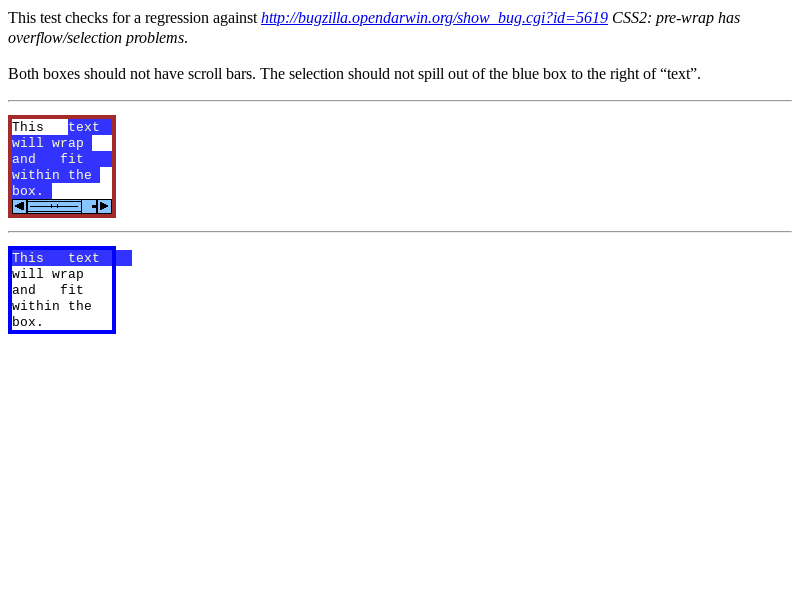
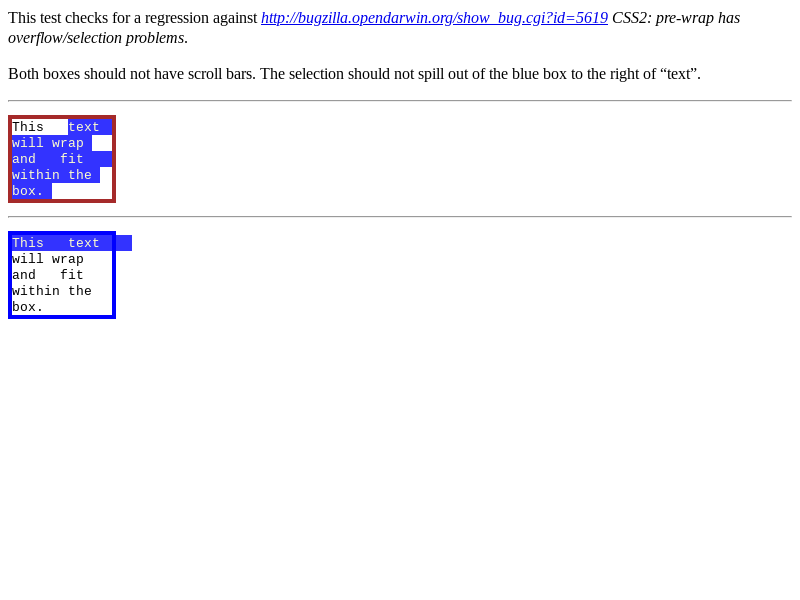
[LayoutNG] Hang preserved trailing spaces for `text-align: start`
This patch hangs preserved trailing spaces when `text-align`
is `start` (or `left` in LTR or `right` in RTL).

The previous tests did not cover `start` case because it was
thought not observable, but issue 966773 discovered that it
is ovservable, and tests figured out that all impls hang in
this case.

This patch matches LayoutNG to legacy. The test is tentative
until the CSS WG resolution.

One test was failing before this patch but was accidentally
passed. Now it really fails:

Bug: 966773
Commit-Queue: Koji Ishii <kojii@chromium.org>
Cr-Original-Commit-Position: refs/heads/master@{#665495}
Cr-Mirrored-From: https://chromium.googlesource.com/chromium/src
Cr-Mirrored-Commit: 82caddcc1f6f39ec55e143363a387c3393079e52

Changed region(s): [[0.0, 0.33, 0.9688, 0.57]]

diff --git a/blink/web_tests/external/wpt/css/css-text/white-space/trailing-space-align-start.tentative.html b/blink/web_tests/external/wpt/css/css-text/white-space/trailing-space-align-start.tentative.html
@@ -1,0 +1,22 @@
+<!DOCTYPE html>
+<title>Preserved trailing spaces when `text-align: left`</title>
+<link rel="help" href="http://crbug.com/966773">
+<link rel="author" title="Koji Ishii" href="mailto:kojii@chromium.org">
+<link rel="match" href="reference/trailing-space-align-start-ref.html">
+<style>
+div {
+  font-family: monospace;
+  font-size: 30px;
+  width: 3ch;
+  overflow: auto;
+}
+.pre { white-space: pre; }
+.pre-wrap { white-space: pre-wrap; }
+</style>
+<body>
+  <div class="pre">0 0 </div>
+  <div class="pre">0 0</div>
+  <div class="pre-wrap">0 0</div>
+  <div class="pre-wrap">0 0 </div>
+  <div class="pre-wrap">0 0 0 0 </div>
+</body>

diff --git a/blink/web_tests/external/wpt/css/css-text/white-space/reference/trailing-space-align-start-ref.html b/blink/web_tests/external/wpt/css/css-text/white-space/reference/trailing-space-align-start-ref.html
@@ -1,0 +1,17 @@
+<!DOCTYPE html>
+<style>
+div {
+  font-family: monospace;
+  font-size: 30px;
+  width: 3ch;
+  overflow: auto;
+  white-space: pre;
+}
+</style>
+<body>
+  <div>0 00</div>
+  <div>0 0</div>
+  <div>0 0</div>
+  <div>0 0</div>
+  <div>0 0<br>0 0</div>
+</body>

diff --git a/blink/renderer/core/layout/ng/inline/ng_inline_item_result.h b/blink/renderer/core/layout/ng/inline/ng_inline_item_result.h
@@ -176,17 +176,22 @@ class CORE_EXPORT NGLineInfo {
   void SetTextIndent(LayoutUnit indent) { text_indent_ = indent; }
   LayoutUnit TextIndent() const { return text_indent_; }
 
+  ETextAlign TextAlign() const { return text_align_; }
+  // Update |TextAlign()| and related fields. This depends on |IsLastLine()| and
+  // that must be called after |SetIsLastLine()|.
+  void UpdateTextAlign();
+
   NGBfcOffset BfcOffset() const { return bfc_offset_; }
   LayoutUnit AvailableWidth() const { return available_width_; }
 
   // The width of this line. Includes trailing spaces if they were preserved.
   // Negative width created by negative 'text-indent' is clamped to zero.
   LayoutUnit Width() const { return width_.ClampNegativeToZero(); }
-  // Same as |Width()| but returns negative value as is.
-  LayoutUnit WidthForAlignment() const { return width_; }
-  // The width of preserved trailing spaces.
-  LayoutUnit ComputeTrailingSpaceWidth(
-      unsigned* end_offset_out = nullptr) const;
+  // Same as |Width()| but returns negative value as is. Preserved trailing
+  // spaces may or may not be included, depends on |ShouldHangTrailingSpaces()|.
+  LayoutUnit WidthForAlignment() const { return width_ - hang_width_; }
+  // Width that hangs over the end of the line; e.g., preserved trailing spaces.
+  LayoutUnit HangWidth() const { return hang_width_; }
   // Compute |Width()| from |Results()|. Used during line breaking, before
   // |Width()| is set. After line breaking, this should match to |Width()|
   // without clamping.
@@ -194,6 +199,7 @@ class CORE_EXPORT NGLineInfo {
 
   bool HasTrailingSpaces() const { return has_trailing_spaces_; }
   void SetHasTrailingSpaces() { has_trailing_spaces_ = true; }
+  bool ShouldHangTrailingSpaces() const;
 
   // True if this line has overflow, excluding preserved trailing spaces.
   bool HasOverflow() const { return has_overflow_; }
@@ -211,6 +217,12 @@ class CORE_EXPORT NGLineInfo {
   // End text offset of this line, excluding out-of-flow objects such as
   // floating or positioned.
   unsigned InflowEndOffset() const;
+  // End text offset for `text-align: justify`. This excludes preserved trailing
+  // spaces. Available only when |TextAlign()| is |kJustify|.
+  unsigned EndOffsetForJustify() const {
+    DCHECK_EQ(text_align_, ETextAlign::kJustify);
+    return end_offset_for_justify_;
+  }
   // End item index of this line.
   unsigned EndItemIndex() const { return end_item_index_; }
   void SetEndItemIndex(unsigned index) { end_item_index_ = index; }
@@ -234,6 +246,10 @@ class CORE_EXPORT NGLineInfo {
  private:
   bool ComputeNeedsAccurateEndPosition() const;
 
+  // The width of preserved trailing spaces.
+  LayoutUnit ComputeTrailingSpaceWidth(
+      unsigned* end_offset_out = nullptr) const;
+
   const NGInlineItemsData* items_data_ = nullptr;
   const ComputedStyle* line_style_ = nullptr;
   NGInlineItemResults results_;
@@ -243,11 +259,14 @@ class CORE_EXPORT NGLineInfo {
 
   LayoutUnit available_width_;
   LayoutUnit width_;
+  LayoutUnit hang_width_;
   LayoutUnit text_indent_;
 
   unsigned start_offset_;
   unsigned end_item_index_;
+  unsigned end_offset_for_justify_;
 
+  ETextAlign text_align_ = ETextAlign::kLeft;
   TextDirection base_direction_ = TextDirection::kLtr;
 
   bool use_first_line_style_ = false;

diff --git a/blink/renderer/core/layout/ng/inline/ng_physical_line_box_fragment.cc b/blink/renderer/core/layout/ng/inline/ng_physical_line_box_fragment.cc
@@ -64,6 +64,7 @@ NGPhysicalLineBoxFragment::NGPhysicalLineBoxFragment(
   // A line box must have a metrics unless it's an empty line box.
   DCHECK(!metrics_.IsEmpty() || IsEmptyLineBox());
   base_direction_ = static_cast<unsigned>(builder->base_direction_);
+  has_hanging_ = builder->hang_inline_size_ != 0;
   has_propagated_descendants_ = has_floating_descendants_ ||
                                 !oof_positioned_descendants_.IsEmpty() ||
                                 builder->unpositioned_list_marker_;
@@ -88,6 +89,24 @@ PhysicalRect NGPhysicalLineBoxFragment::ScrollableOverflow(
     PhysicalRect child_scroll_overflow =
         child->ScrollableOverflowForPropagation(container);
     child_scroll_overflow.offset += child.Offset();
+
+    // Chop the hanging part from scrollable overflow. Children overflow in
+    // inline direction should hang, which should not cause scroll.
+    // TODO(kojii): Should move to text fragment to make this more accurate.
+    if (UNLIKELY(has_hanging_ && !child->IsFloatingOrOutOfFlowPositioned())) {
+      if (IsHorizontalWritingMode(container_writing_mode)) {
+        if (child_scroll_overflow.offset.left < 0)
+          child_scroll_overflow.offset.left = LayoutUnit();
+        if (child_scroll_overflow.Right() > Size().width)
+          child_scroll_overflow.ShiftRightEdgeTo(Size().width);
+      } else {
+        if (child_scroll_overflow.offset.top < 0)
+          child_scroll_overflow.offset.top = LayoutUnit();
+        if (child_scroll_overflow.Bottom() > Size().height)
+          child_scroll_overflow.ShiftBottomEdgeTo(Size().height);
+      }
+    }
+
     // If child has the same style as parent, parent will compute relative
     // offset.
     if (&child->Style() != container_style) {

diff --git a/blink/renderer/core/layout/ng/inline/ng_inline_layout_algorithm.cc b/blink/renderer/core/layout/ng/inline/ng_inline_layout_algorithm.cc
@@ -293,6 +293,14 @@ void NGInlineLayoutAlgorithm::CreateLine(
     box_states_->UpdateAfterReorder(&line_box_);
   }
   LayoutUnit inline_size = box_states_->ComputeInlinePositions(&line_box_);
+  if (LayoutUnit hang_width = line_info->HangWidth()) {
+    inline_size -= hang_width;
+    container_builder_.SetHangInlineSize(hang_width);
+
+    if (IsRtl(line_info->BaseDirection())) {
+      line_box_.MoveInInlineDirection(-hang_width);
+    }
+  }
 
   // Truncate the line if 'text-overflow: ellipsis' is set.
   if (UNLIKELY(inline_size > line_info->AvailableWidth() &&
@@ -631,10 +639,7 @@ bool NGInlineLayoutAlgorithm::ApplyJustify(LayoutUnit space,
     return false;
 
   // Justify the end of visible text, ignoring preserved trailing spaces.
-  unsigned end_offset;
-  LayoutUnit trailing_spaces_width =
-      line_info->ComputeTrailingSpaceWidth(&end_offset);
-  space += trailing_spaces_width;
+  unsigned end_offset = line_info->EndOffsetForJustify();
 
   // If this line overflows, fallback to 'text-align: start'.
   if (space <= 0)
@@ -708,8 +713,7 @@ LayoutUnit NGInlineLayoutAlgorithm::ApplyTextAlign(NGLineInfo* line_info) {
   LayoutUnit space =
       line_info->AvailableWidth() - line_info->WidthForAlignment();
 
-  const ComputedStyle& line_style = line_info->LineStyle();
-  ETextAlign text_align = line_style.GetTextAlign(line_info->IsLastLine());
+  ETextAlign text_align = line_info->TextAlign();
   if (text_align == ETextAlign::kJustify) {
     // If justification succeeds, no offset is needed. Expansions are set to
     // each |NGInlineItemResult| in |line_info|.

diff --git a/blink/renderer/core/layout/ng/inline/ng_inline_item_result.cc b/blink/renderer/core/layout/ng/inline/ng_inline_item_result.cc
@@ -110,6 +110,38 @@ unsigned NGLineInfo::InflowEndOffset() const {
   return StartOffset();
 }
 
+bool NGLineInfo::ShouldHangTrailingSpaces() const {
+  DCHECK(HasTrailingSpaces());
+  if (!line_style_->AutoWrap())
+    return false;
+  switch (text_align_) {
+    case ETextAlign::kStart:
+    case ETextAlign::kJustify:
+      return true;
+    case ETextAlign::kEnd:
+    case ETextAlign::kCenter:
+    case ETextAlign::kWebkitCenter:
+      return false;
+    case ETextAlign::kLeft:
+    case ETextAlign::kWebkitLeft:
+      return IsLtr(BaseDirection());
+    case ETextAlign::kRight:
+    case ETextAlign::kWebkitRight:
+      return IsRtl(BaseDirection());
+  }
+  NOTREACHED();
+}
+
+void NGLineInfo::UpdateTextAlign() {
+  text_align_ = line_style_->GetTextAlign(IsLastLine());
+
+  if (HasTrailingSpaces() && ShouldHangTrailingSpaces()) {
+    hang_width_ = ComputeTrailingSpaceWidth(&end_offset_for_justify_);
+  } else if (text_align_ == ETextAlign::kJustify) {
+    end_offset_for_justify_ = InflowEndOffset();
+  }
+}
+
 LayoutUnit NGLineInfo::ComputeTrailingSpaceWidth(
     unsigned* end_offset_out) const {
   if (!has_trailing_spaces_) {

diff --git a/blink/renderer/core/layout/ng/inline/ng_line_box_fragment_builder.h b/blink/renderer/core/layout/ng/inline/ng_line_box_fragment_builder.h
@@ -50,6 +50,10 @@ class CORE_EXPORT NGLineBoxFragmentBuilder final
     size_.inline_size = inline_size;
   }
 
+  void SetHangInlineSize(LayoutUnit hang_inline_size) {
+    hang_inline_size_ = hang_inline_size;
+  }
+
   // Mark this line box is an "empty" line box. See NGLineBoxType.
   void SetIsEmptyLineBox();
 
@@ -218,6 +222,7 @@ class CORE_EXPORT NGLineBoxFragmentBuilder final
                                     inline_size, bidi_level});
     }
 
+    void MoveInInlineDirection(LayoutUnit);
     void MoveInInlineDirection(LayoutUnit, unsigned start, unsigned end);
     void MoveInBlockDirection(LayoutUnit);
     void MoveInBlockDirection(LayoutUnit, unsigned start, unsigned end);
@@ -234,6 +239,7 @@ class CORE_EXPORT NGLineBoxFragmentBuilder final
 
  private:
   NGLineHeightMetrics metrics_;
+  LayoutUnit hang_inline_size_;
   NGPhysicalLineBoxFragment::NGLineBoxType line_box_type_;
   TextDirection base_direction_;
 

diff --git a/blink/renderer/core/layout/ng/inline/ng_line_breaker_test.cc b/blink/renderer/core/layout/ng/inline/ng_line_breaker_test.cc
@@ -494,8 +494,13 @@ TEST_P(NGTrailingSpaceWidthTest, TrailingSpaceWidth) {
   )HTML");
 
   Vector<NGLineInfo> line_infos = BreakToLineInfo(node, LayoutUnit(50));
-  EXPECT_EQ(line_infos[0].ComputeTrailingSpaceWidth(),
-            LayoutUnit(10) * data.trailing_space_width);
+  const NGLineInfo& line_info = line_infos[0];
+  if (line_info.ShouldHangTrailingSpaces()) {
+    EXPECT_EQ(line_info.HangWidth(),
+              LayoutUnit(10) * data.trailing_space_width);
+  } else {
+    EXPECT_EQ(line_info.HangWidth(), LayoutUnit());
+  }
 }
 
 TEST_F(NGLineBreakerTest, MinMaxWithTrailingSpaces) {

diff --git a/blink/renderer/core/layout/ng/ng_physical_fragment.h b/blink/renderer/core/layout/ng/ng_physical_fragment.h
@@ -301,6 +301,7 @@ class CORE_EXPORT NGPhysicalFragment
   // (it's defined here to save memory, since that class has no bitfields).
   unsigned has_propagated_descendants_ : 1;
   unsigned base_direction_ : 1;  // TextDirection
+  unsigned has_hanging_ : 1;
 
   // The following bitfields are only to be used by NGPhysicalBoxFragment
   // (it's defined here to save memory, since that class has no bitfields).

diff --git a/blink/renderer/core/layout/ng/inline/ng_line_breaker.cc b/blink/renderer/core/layout/ng/inline/ng_line_breaker.cc
@@ -477,6 +477,8 @@ void NGLineBreaker::ComputeLineLocation(NGLineInfo* line_info) const {
   line_info->SetWidth(available_width, position_);
   line_info->SetBfcOffset(
       {line_opportunity_.line_left_offset, line_opportunity_.bfc_block_offset});
+  if (mode_ == NGLineBreakerMode::kContent)
+    line_info->UpdateTextAlign();
 }
 
 void NGLineBreaker::HandleText(const NGInlineItem& item,

diff --git a/blink/renderer/core/layout/ng/inline/ng_line_box_fragment_builder.cc b/blink/renderer/core/layout/ng/inline/ng_line_box_fragment_builder.cc
@@ -56,6 +56,12 @@ NGLineBoxFragmentBuilder::ChildList::LastInFlowChild() {
 }
 
 void NGLineBoxFragmentBuilder::ChildList::MoveInInlineDirection(
+    LayoutUnit delta) {
+  for (auto& child : children_)
+    child.offset.inline_offset += delta;
+}
+
+void NGLineBoxFragmentBuilder::ChildList::MoveInInlineDirection(
     LayoutUnit delta,
     unsigned start,
     unsigned end) {
